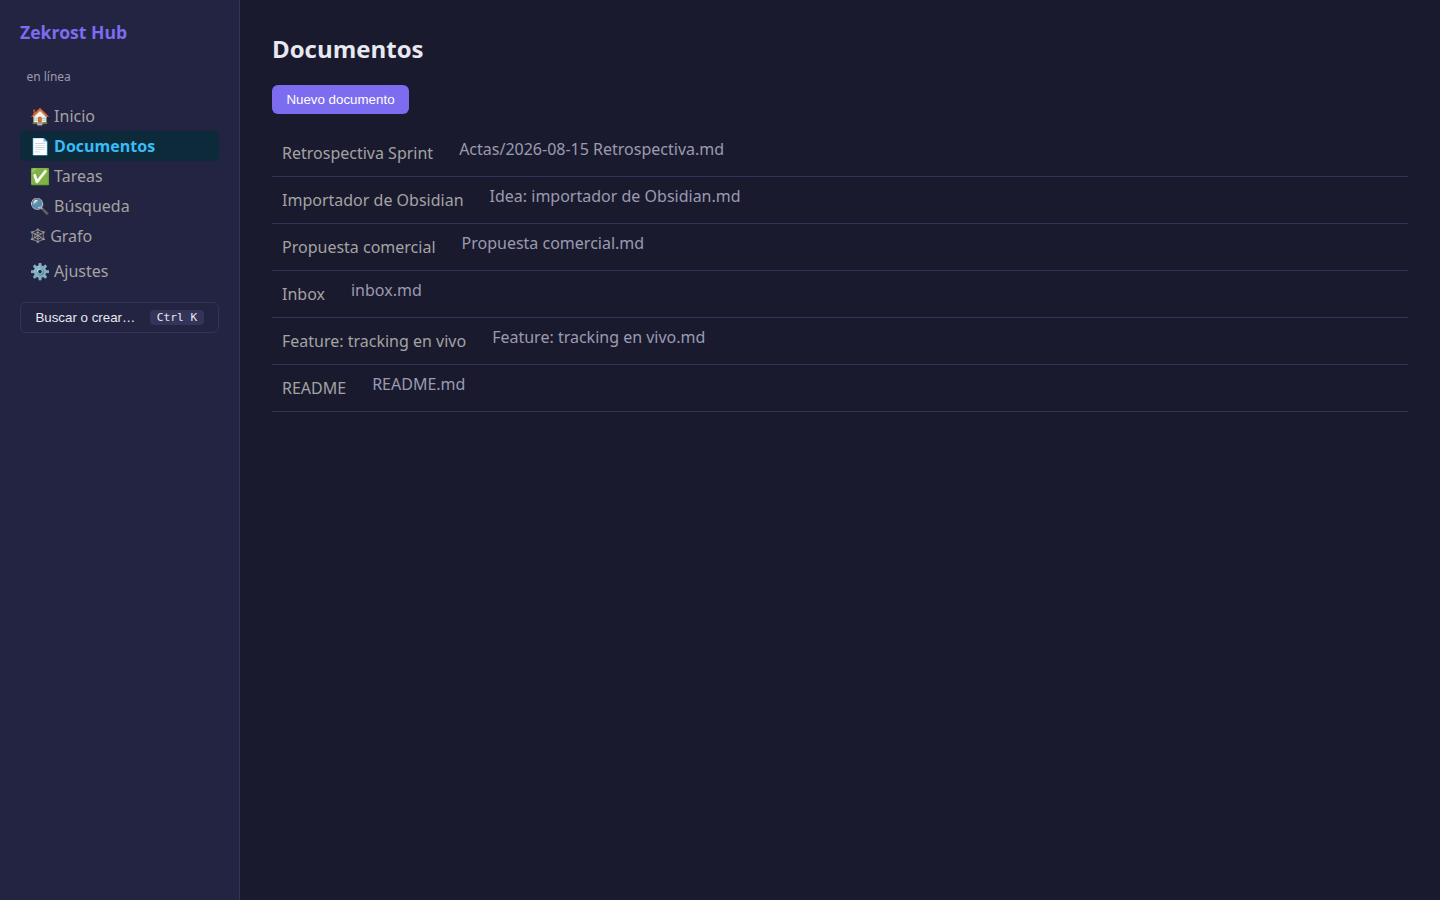
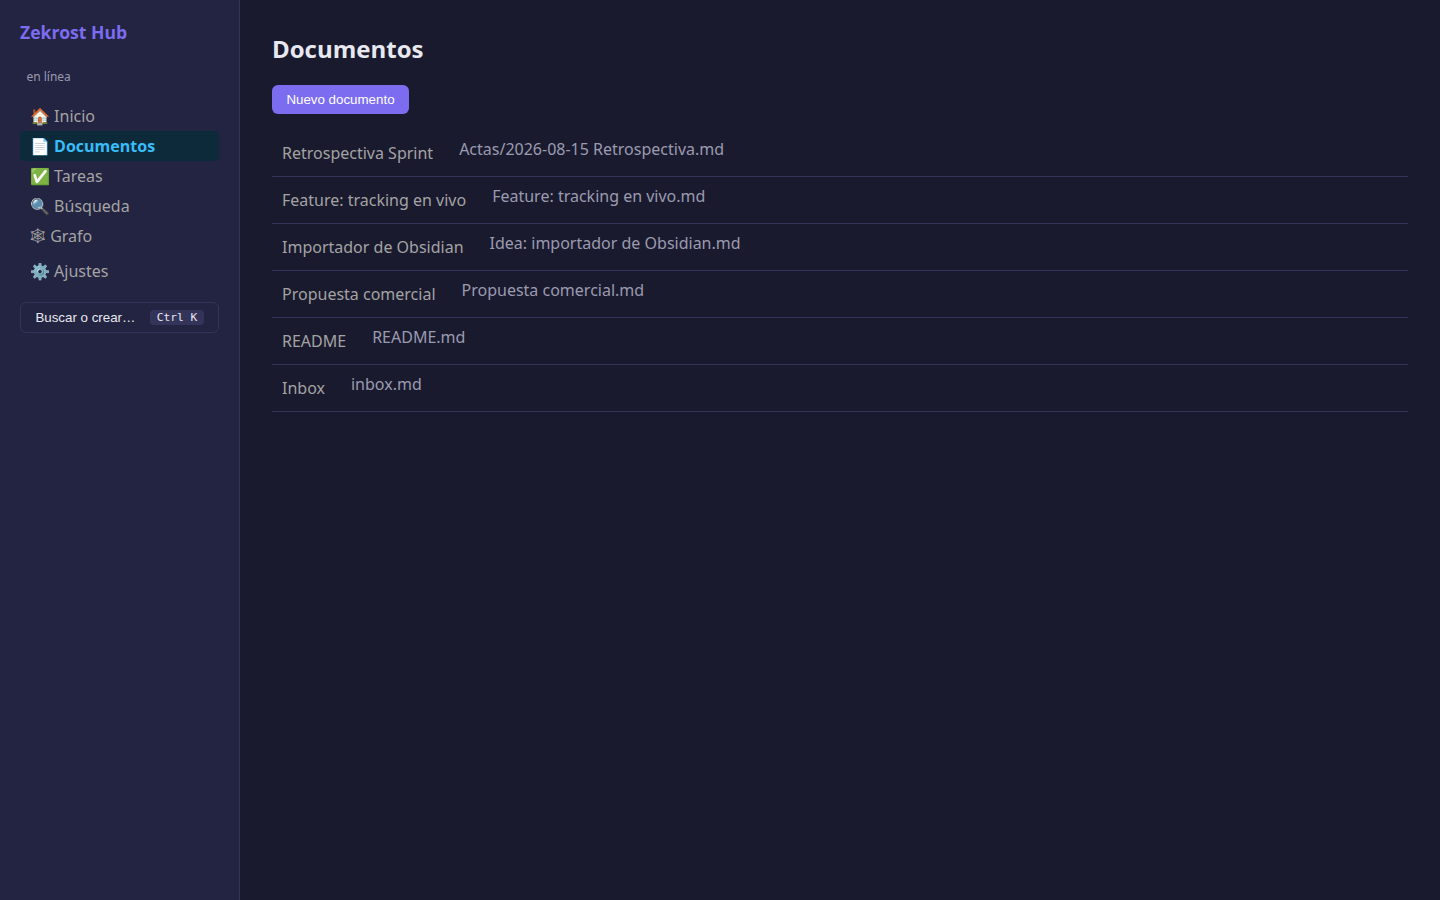
fix: tareas serializadas como [object Object] en la UI
El backend devolvía sql.NullString ({"String":...,"Valid":...}) en
las tareas; la UI interpolaba el objeto como texto. Ahora la API expone
un TaskDTO con string|null y test de regresión que verifica la forma
JSON. Capturas del README regeneradas con la app corregida.

Changed region(s): [[0.1875, 0.1867, 0.5312, 0.28], [0.1875, 0.3733, 0.4688, 0.4356], [0.1875, 0.3111, 0.4375, 0.3422]]

diff --git a/internal/server/handlers.go b/internal/server/handlers.go
@@ -269,6 +269,53 @@ func (s *Server) handlePatchDoc(c *gin.Context) {
 // Las tareas son proyecciones del índice; PATCH reescribe la línea en
 // el Markdown fuente (round-trip, sección 6.2) y reindexa.
 
+
+// TaskDTO es la representación JSON pública de una tarea: el backend
+// serializa los campos nullable como string|null (nunca como el objeto
+// interno sql.NullString).
+type TaskDTO struct {
+	ID          string  `json:"id"`
+	WorkspaceID string  `json:"workspace_id"`
+	DocID       string  `json:"doc_id"`
+	LineNo      int64   `json:"line_no"`
+	Title       string  `json:"title"`
+	DueDate     *string `json:"due_date"`
+	Project     *string `json:"project"`
+	Priority    *string `json:"priority"`
+	Assignee    *string `json:"assignee"`
+	Done        int64   `json:"done"`
+	CreatedAt   string  `json:"created_at"`
+	UpdatedAt   string  `json:"updated_at"`
+}
+
+func toTaskDTO(t db.Task) TaskDTO {
+	return TaskDTO{
+		ID: t.ID, WorkspaceID: t.WorkspaceID, DocID: t.DocID,
+		LineNo: t.LineNo, Title: t.Title,
+		DueDate:   nsPtr(t.DueDate),
+		Project:   nsPtr(t.Project),
+		Priority:  nsPtr(t.Priority),
+		Assignee:  nsPtr(t.Assignee),
+		Done:      t.Done,
+		CreatedAt: t.CreatedAt, UpdatedAt: t.UpdatedAt,
+	}
+}
+
+func toTaskDTOs(rows []db.Task) []TaskDTO {
+	out := make([]TaskDTO, 0, len(rows))
+	for _, r := range rows {
+		out = append(out, toTaskDTO(r))
+	}
+	return out
+}
+
+func nsPtr(ns sql.NullString) *string {
+	if !ns.Valid {
+		return nil
+	}
+	return &ns.String
+}
+
 // handleListTasks devuelve una proyección del índice (sección 6.3).
 // Las vistas nunca almacenan estado: son consultas materializadas.
 //
@@ -319,7 +366,7 @@ func (s *Server) handleListTasks(c *gin.Context) {
 	if rows == nil {
 		rows = []db.Task{}
 	}
-	c.JSON(http.StatusOK, gin.H{"tasks": rows})
+	c.JSON(http.StatusOK, gin.H{"tasks": toTaskDTOs(rows)})
 }
 
 type patchTaskRequest struct {

diff --git a/internal/server/roles_test.go b/internal/server/roles_test.go
@@ -167,3 +167,51 @@ func mustJSON(t *testing.T, v any) []byte {
 	}
 	return b
 }
+
+// TestTaskJSONShape: los campos nullable se serializan como string|null,
+// nunca como el objeto interno de sql.NullString.
+func TestTaskJSONShape(t *testing.T) {
+	srv, ownerID := testServer(t)
+	ctx := context.Background()
+	wsID := srv.mustFirstWorkspace(ctx, ownerID)
+
+	if err := srv.store.Write("ws", "t.md", []byte(
+		"- [ ] tarea con todo #2026-09-01 @proyecto !alta ~deiver\n- [ ] tarea sin metadatos\n",
+	)); err != nil {
+		t.Fatal(err)
+	}
+	if _, err := srv.indexer.ReindexWorkspace(ctx, wsID, "ws"); err != nil {
+		t.Fatal(err)
+	}
+
+	token, _ := srv.authSvc.AccessToken(ownerID, nil)
+	req := httptest.NewRequest(http.MethodGet, "/api/v1/tasks", nil)
+	req.Header.Set("Authorization", "Bearer "+token)
+	w := httptest.NewRecorder()
+	srv.Router(nil).ServeHTTP(w, req)
+
+	var resp struct {
+		Tasks []map[string]any `json:"tasks"`
+	}
+	if err := json.Unmarshal(w.Body.Bytes(), &resp); err != nil {
+		t.Fatal(err)
+	}
+	if len(resp.Tasks) != 2 {
+		t.Fatalf("tasks = %d", len(resp.Tasks))
+	}
+	byTitle := map[string]map[string]any{}
+	for _, tk := range resp.Tasks {
+		byTitle[tk["title"].(string)] = tk
+	}
+	full := byTitle["tarea con todo"]
+	if v, ok := full["project"].(string); !ok || v != "proyecto" {
+		t.Errorf("project debe ser string, got %#v", full["project"])
+	}
+	if v, ok := full["due_date"].(string); !ok || v != "2026-09-01" {
+		t.Errorf("due_date debe ser string, got %#v", full["due_date"])
+	}
+	empty := byTitle["tarea sin metadatos"]
+	if empty["priority"] != nil || empty["assignee"] != nil {
+		t.Errorf("priority/assignee sin valor deben ser null, got %#v / %#v", empty["priority"], empty["assignee"])
+	}
+}

diff --git a/internal/server/quickadd_test.go b/internal/server/quickadd_test.go
@@ -78,17 +78,19 @@ func TestQuickAddAppendsToInboxAndIndexes(t *testing.T) {
 		t.Fatalf("status = %d: %s", w.Code, w.Body.String())
 	}
 
-	var created db.Task
+	var created TaskDTO
 	if err := json.Unmarshal(w.Body.Bytes(), &created); err != nil {
 		t.Fatal(err)
 	}
 	if created.Title != "revisar facturas" {
 		t.Errorf("title = %q", created.Title)
 	}
-	if created.Project.String != "zekrost" || created.Priority.String != "alta" || created.Assignee.String != "deiver" {
+	if created.Project == nil || *created.Project != "zekrost" ||
+		created.Priority == nil || *created.Priority != "alta" ||
+		created.Assignee == nil || *created.Assignee != "deiver" {
 		t.Errorf("metadatos = %+v", created)
 	}
-	if created.DueDate.String == "" {
+	if created.DueDate == nil || *created.DueDate == "" {
 		t.Error("la fecha relativa #mañana debió resolverse")
 	}
 

diff --git a/internal/server/quickadd.go b/internal/server/quickadd.go
@@ -102,5 +102,5 @@ func (s *Server) handleQuickAdd(c *gin.Context) {
 		s.fail(c, http.StatusInternalServerError, "internal", "la tarea no apareció en el índice")
 		return
 	}
-	c.JSON(http.StatusCreated, created)
+	c.JSON(http.StatusCreated, toTaskDTO(*created))
 }
